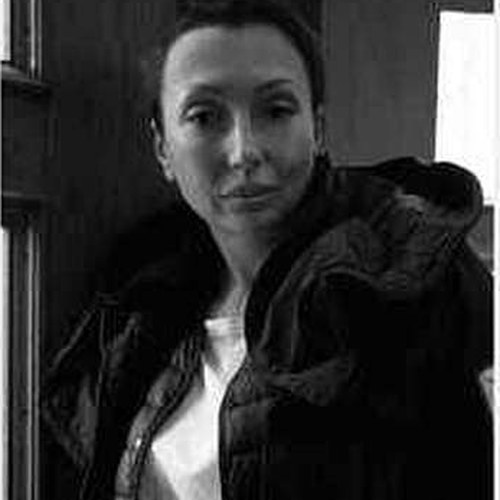
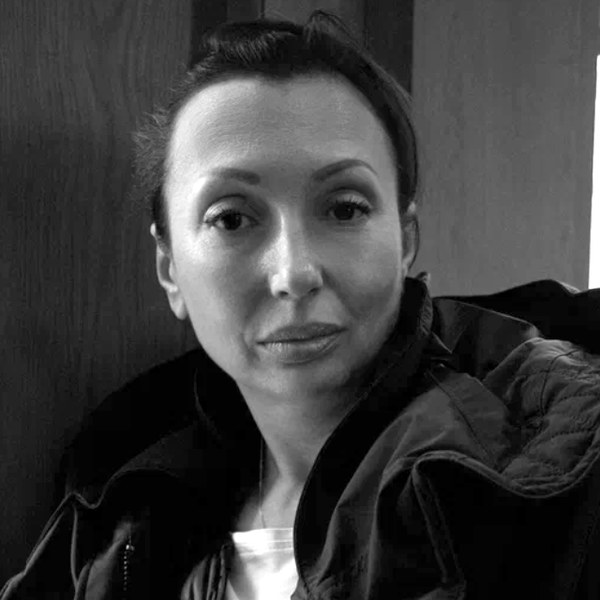
Новое, более светлое фото Ирины Моториной (главная и авторы)
Claude-Session: https://claude.ai/code/session_01D4ZmMERxLuGBye3qaA28hB

diff --git a/authors.html b/authors.html
@@ -721,7 +721,7 @@
       <div class="author-work-thumb"><img loading="lazy" src="images/works/motorina-tihiy-dvor-artel-glubina.jpg" alt="«Тихий двор» — Ирина Моторина, Артель Глубина" onclick="openWorkModal('motorina4')"></div>
     </div>
     <div>
-      <div class="author-name-row"><div class="author-avatar"><img loading="lazy" src="images/team/motorina.jpg" alt="Ирина Моторина — Глубина"></div><h2 class="author-name">Ирина Моторина</h2></div>
+      <div class="author-name-row"><div class="author-avatar"><img loading="lazy" src="images/team/motorina.jpg?v=2" alt="Ирина Моторина — художница женской художественной артели Глубина"></div><h2 class="author-name">Ирина Моторина</h2></div>
       <div class="author-vuz">МГАХИ им. В.И. Сурикова (факультет плаката), Школа фотографии и мультимедиа им. Родченко &middot; живопись, графика, инсталляция, digital-арт</div>
 
       <div class="author-block-label">Образование</div>

diff --git a/index.html b/index.html
@@ -2195,7 +2195,7 @@
         </div>
       </a>
       <a class="team-card" href="authors.html#author-2">
-        <div class="team-photo"><img loading="lazy" src="images/team/motorina.jpg" alt="Ирина Моторина — Глубина"></div>
+        <div class="team-photo"><img loading="lazy" src="images/team/motorina.jpg?v=2" alt="Ирина Моторина — художница женской художественной артели Глубина"></div>
         <div class="team-info">
           <div class="team-name">Ирина Моторина</div>
           <div class="team-role">графика, инсталляция</div>
